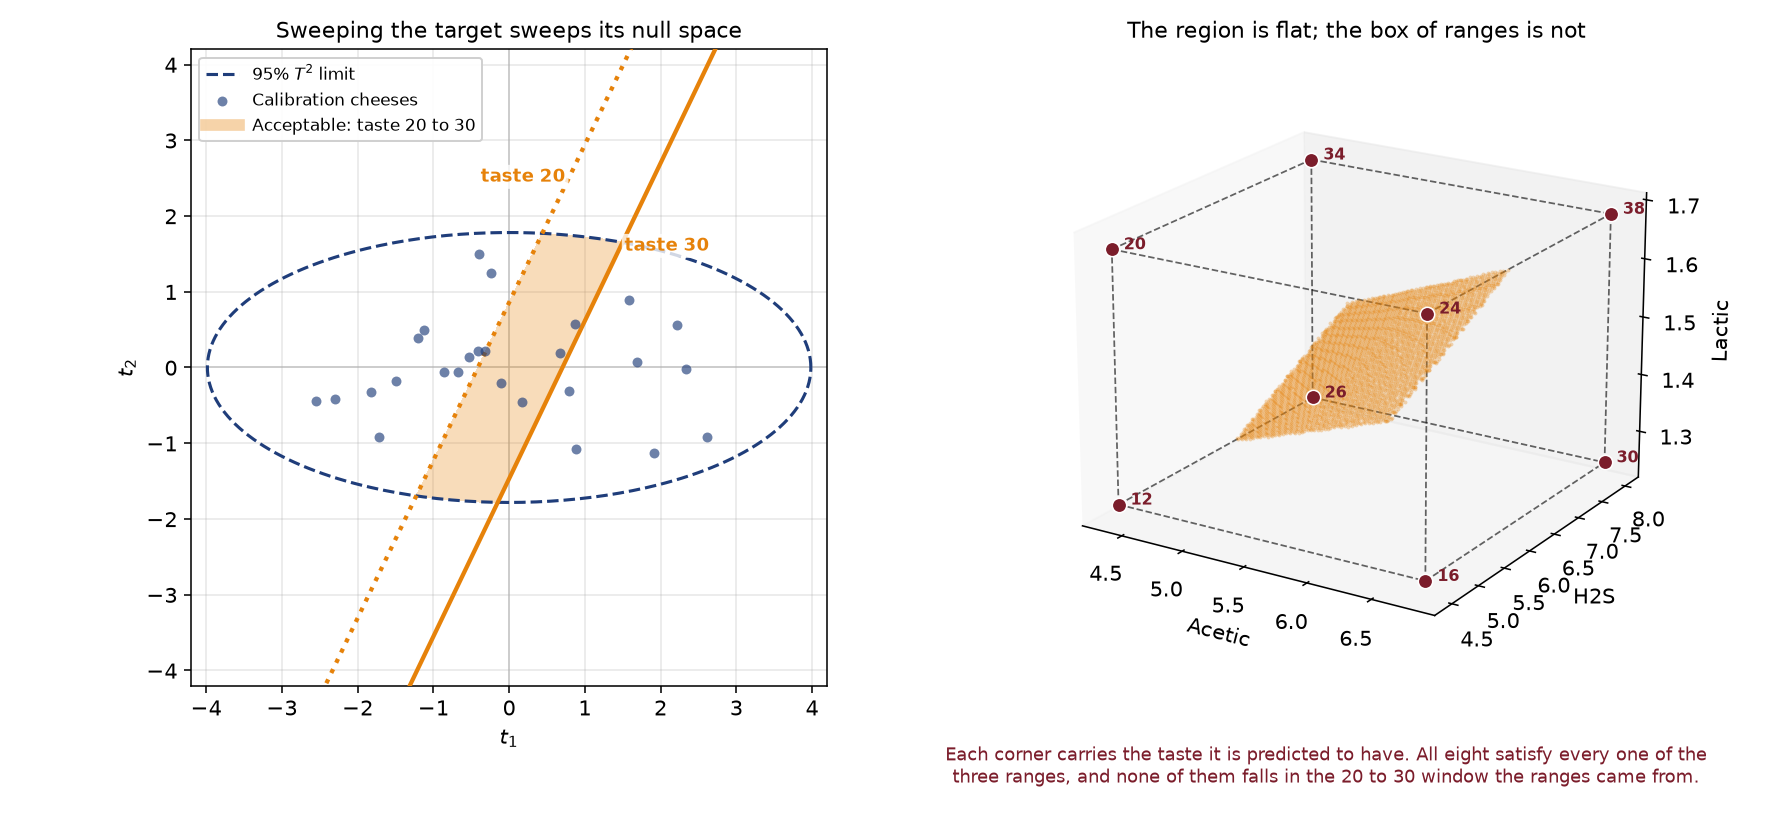
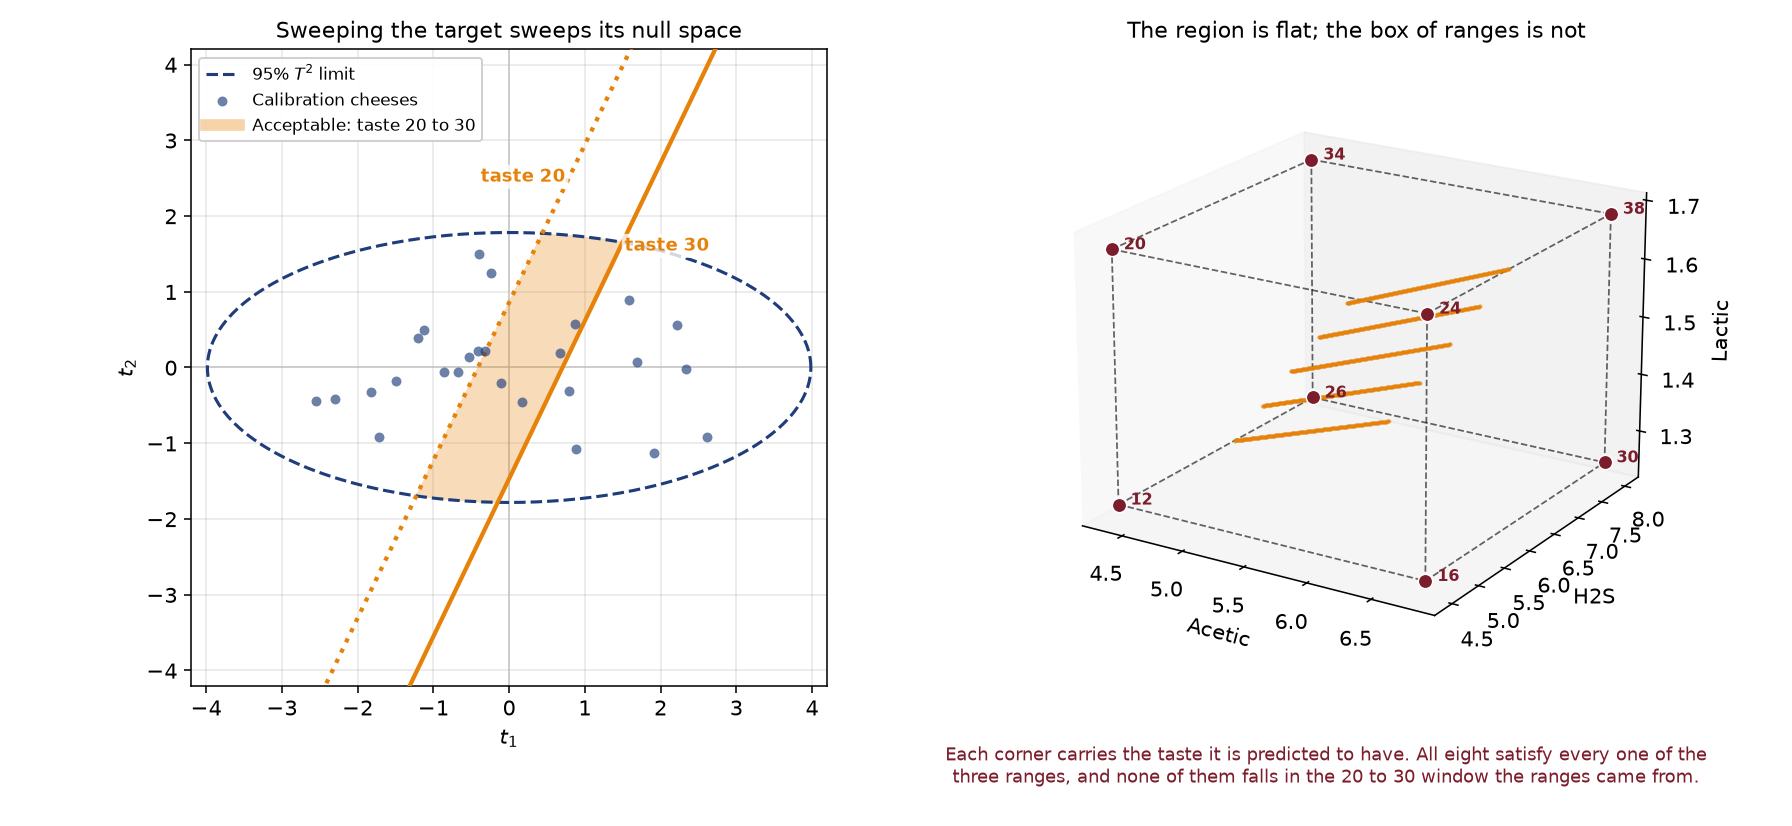
Sweep the region exactly as the chapter sweeps it
The figure computed the box from a dense grid while the chapter computed it
from a loop over five targets, so the two disagreed in the second decimal of
H2S and by 0.1 in the corner tastes. The figure now uses the chapter's own
sweep for the box and the corners, leaving the dense grid only for shading
the region in the left panel.

Claude-Session: https://claude.ai/code/session_01DsTypY4FcRbrXRxorb9raz

Changed region(s): [[0.6875, 0.3027, 0.8438, 0.5448]]

diff --git a/pls/pls-specification-region.py b/pls/pls-specification-region.py
@@ -76,7 +76,6 @@ def build_figure(out_dir: Path) -> None:
     sf = pls.scaling_factor_for_scores_.to_numpy()
     q = pls.y_loadings_.to_numpy().ravel()
     loadings = pls.x_loadings_.to_numpy()
-    weights = pls.direct_weights_.to_numpy()
     y_mean, y_std = float(y_block.mean().iloc[0]), float(y_block.std().iloc[0])
     x_mean, x_std = x_block.mean().to_numpy(), x_block.std().to_numpy()
 
@@ -88,19 +87,26 @@ def build_figure(out_dir: Path) -> None:
         """Hotelling's T-squared for scores given as rows."""
         return ((scores / sf) ** 2).sum(axis=1)
 
-    # The region, swept out on a dense grid of the score plane.
+    # A dense grid of the score plane, used only to shade the region in the left panel.
     axis = np.linspace(-6, 6, 1500)
     grid = np.column_stack([a.ravel() for a in np.meshgrid(axis, axis)])
     inside = (t2_of(grid) <= t2_limit) & (taste_of(grid) >= TASTE_LOW) & (taste_of(grid) <= TASTE_HIGH)
-    region_scores = grid[inside]
-    region_inputs = region_scores @ loadings.T * x_std + x_mean
+
+    # The region itself is swept exactly as the chapter sweeps it, so the box drawn here
+    # and the min/max the chapter prints are the same numbers.
+    swept = []
+    for target in np.linspace(TASTE_LOW, TASTE_HIGH, 5):
+        for step in np.linspace(-6, 6, 2001):
+            candidate = pls.invert(target, null_space_coordinates=[step])
+            if candidate.hotellings_t2 <= t2_limit:
+                swept.append(candidate.x_new.to_numpy())
+    region_inputs = np.array(swept)
 
     low, high = region_inputs.min(axis=0), region_inputs.max(axis=0)
 
     # The eight corners of the box those three ranges describe.
     corners = np.array(np.meshgrid(*([lo, hi] for lo, hi in zip(low, high)))).reshape(3, -1).T
-    corner_scores = (corners - x_mean) / x_std @ weights
-    corner_taste = taste_of(corner_scores)
+    corner_taste = pls.predict(pd.DataFrame(corners, columns=X_COLUMNS)).to_numpy().ravel()
 
     fig = plt.figure(figsize=(12.8, 5.9))
     ax_scores = fig.add_subplot(1, 2, 1)
